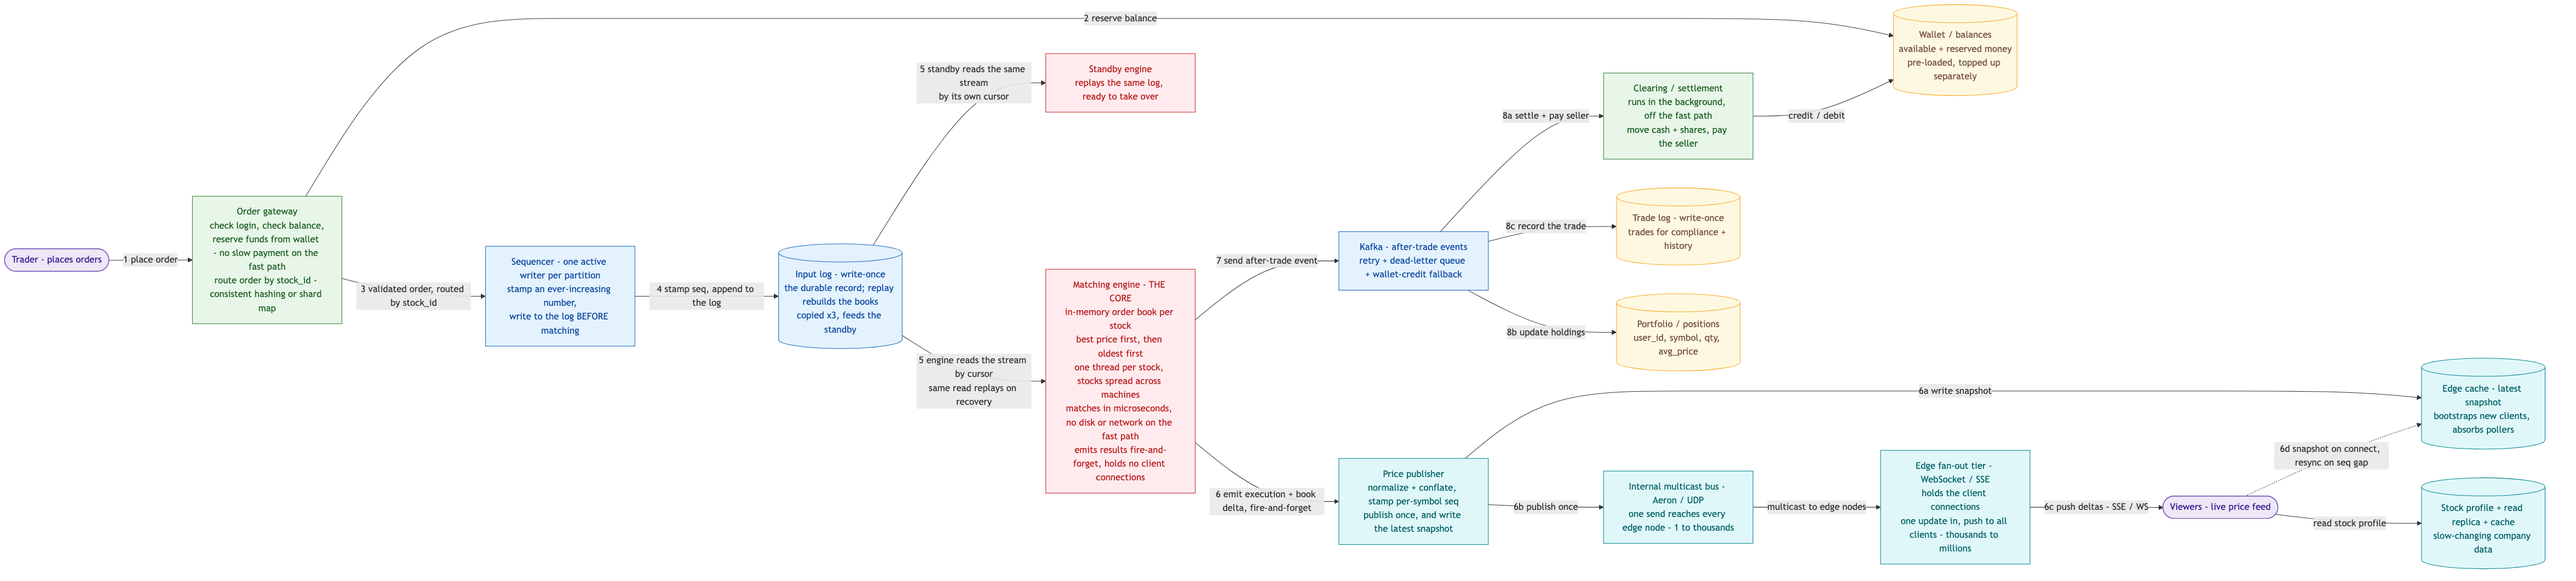
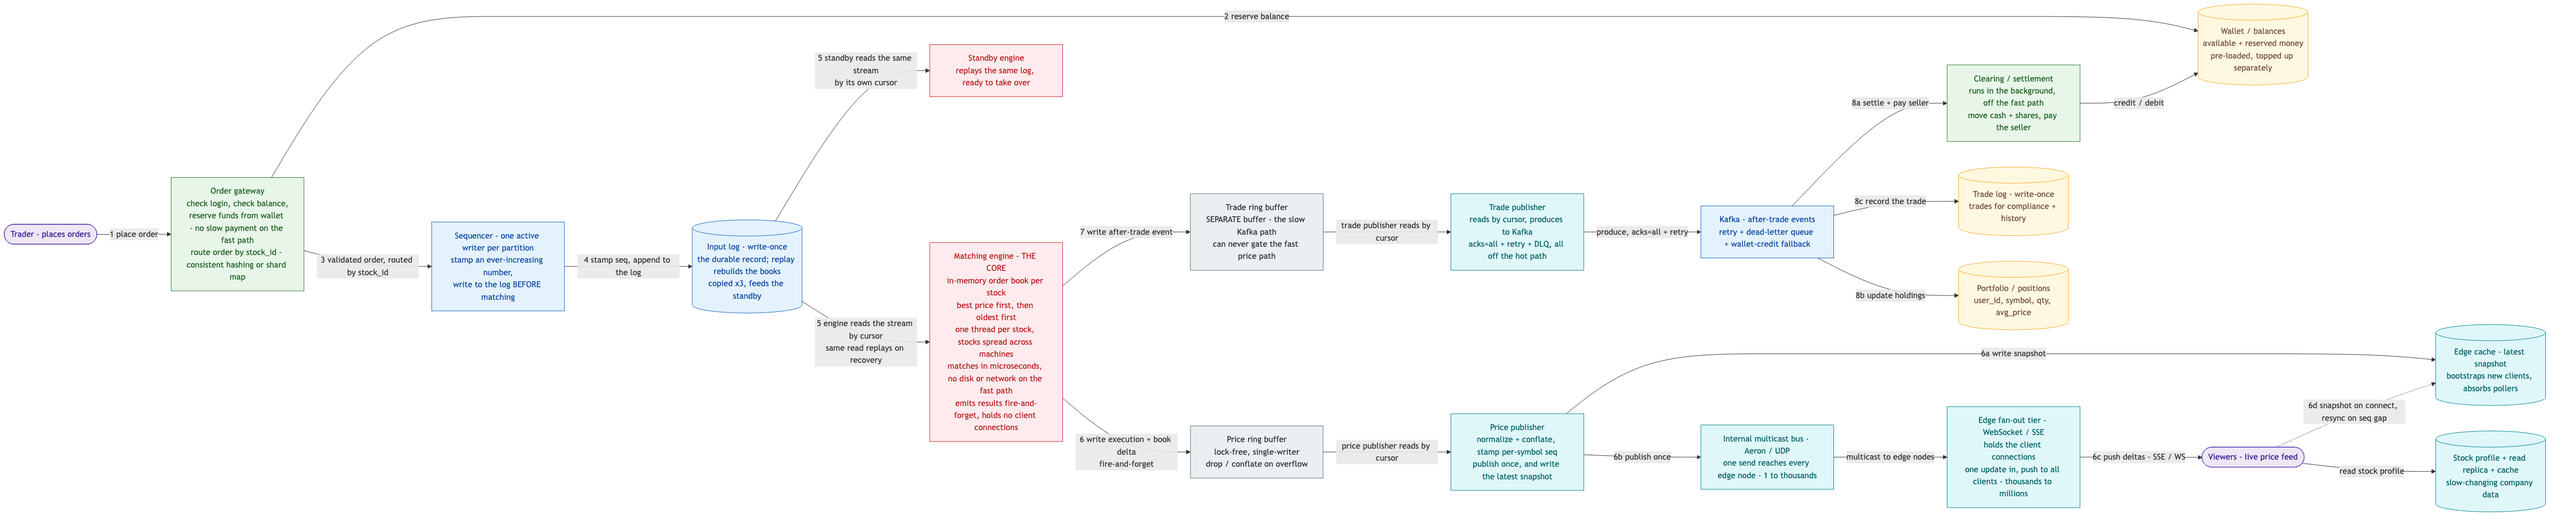
Updated the design for session-10 high frequncy trading

diff --git a/practice/10-session/README.md b/practice/10-session/README.md
@@ -123,7 +123,7 @@ Despite the score, several answers were genuinely senior and are **strengths I c
 
 The system breaks into **three separate flows** that only meet at the matching engine: a **write/match flow** (order comes in → gets matched), a **read/price flow** (trades → millions of screens), and an **after-trade flow** (trades → money and records settle). The whole trick is to keep the first flow in memory and microsecond-fast by moving *everything slow* — outside payments, database writes, fan-out — onto the other two, which run **in the background, off the fast path**. Steps are numbered along the order path (1–7) and the after-trade fan-out (8a–8c).
 
-![Ideal high-frequency trading system as a Mermaid flowchart with numbered steps. A trader places orders into an order gateway that checks login and balance, reserves funds from a wallet with no slow payment on the fast path, and routes each order by stock id using consistent hashing or a shard map, reading available and reserved money from a wallet and balances store that is pre-loaded and topped up separately. Step 1 place order reaches the gateway, step 2 reserve balance hits the wallet, step 3 the validated order is routed by stock id to a sequencer that is the one active writer per partition, stamps an ever-increasing number, and writes to the log before matching, step 4 write to log first writes to a write-once input log that is the durable record whose replay rebuilds the books, is copied three times, and feeds the standby, step 5 the matching engine reads the ordered stream from the log by advancing its own cursor rather than being pushed, and matches against its in-memory order book per stock with best price first then oldest first, one thread per stock, stocks spread across machines, matching in microseconds with no disk or network on the fast path. The standby engine reads the same log by its own cursor to stay in lockstep, and recovery is the same read replayed. Step 6 the engine emits execution and book delta events fire-and-forget to a price publisher, which normalizes and conflates them, stamps a per-symbol sequence number, in step 6a writes the latest snapshot to an edge cache, and in step 6b publishes them once onto an internal multicast bus using Aeron or UDP where one send reaches every edge node in a one-to-thousands fan-out. The multicast bus reaches the edge fan-out tier which holds the client connections and in step 6c pushes deltas to viewers over WebSocket or SSE in a thousands-to-millions fan-out. In step 6d a viewer fetches the latest snapshot from the edge cache on connect and resyncs from it on a sequence gap, and also reads slow-changing stock profile company data from a profile store with read replica and cache. Step 7 the engine sends an after-trade event to Kafka which carries retry, dead-letter queue, and wallet-credit fallback. From Kafka, step 8a settle and pay seller goes to a clearing and settlement service that runs in the background off the fast path to move cash and shares and pay the seller and then credits or debits the wallet, step 8b update holdings goes to a portfolio and positions store keyed by user id symbol quantity and average price, and step 8c record the trade goes to a write-once trade log store holding trades for compliance and history.](./diagrams/ideal-design.png)
+![Ideal high-frequency trading system as a Mermaid flowchart with numbered steps. A trader places orders into an order gateway that checks login and balance, reserves funds from a wallet with no slow payment on the fast path, and routes each order by stock id using consistent hashing or a shard map, reading available and reserved money from a wallet and balances store that is pre-loaded and topped up separately. Step 1 place order reaches the gateway, step 2 reserve balance hits the wallet, step 3 the validated order is routed by stock id to a sequencer that is the one active writer per partition, stamps an ever-increasing number, and writes to the log before matching, step 4 write to log first writes to a write-once input log that is the durable record whose replay rebuilds the books, is copied three times, and feeds the standby, step 5 the matching engine reads the ordered stream from the log by advancing its own cursor rather than being pushed, and matches against its in-memory order book per stock with best price first then oldest first, one thread per stock, stocks spread across machines, matching in microseconds with no disk or network on the fast path. The standby engine reads the same log by its own cursor to stay in lockstep, and recovery is the same read replayed. Step 6 the engine writes each execution and book delta fire-and-forget into a lock-free single-writer price ring buffer that drops or conflates on overflow, and a price publisher reads that ring buffer by its own cursor, normalizes and conflates them, stamps a per-symbol sequence number, in step 6a writes the latest snapshot to an edge cache, and in step 6b publishes them once onto an internal multicast bus using Aeron or UDP where one send reaches every edge node in a one-to-thousands fan-out. The multicast bus reaches the edge fan-out tier which holds the client connections and in step 6c pushes deltas to viewers over WebSocket or SSE in a thousands-to-millions fan-out. In step 6d a viewer fetches the latest snapshot from the edge cache on connect and resyncs from it on a sequence gap, and also reads slow-changing stock profile company data from a profile store with read replica and cache. Step 7 the engine writes each after-trade event fire-and-forget into a separate trade ring buffer, kept separate so the slow Kafka path can never gate the fast price path, and a trade publisher reads that ring buffer by its own cursor and produces to Kafka with acks equal to all plus retry and a dead-letter queue, all off the hot path. Kafka carries retry, dead-letter queue, and wallet-credit fallback. From Kafka, step 8a settle and pay seller goes to a clearing and settlement service that runs in the background off the fast path to move cash and shares and pay the seller and then credits or debits the wallet, step 8b update holdings goes to a portfolio and positions store keyed by user id symbol quantity and average price, and step 8c record the trade goes to a write-once trade log store holding trades for compliance and history.](./diagrams/ideal-design.png)
 
 #### Flow A — the write / match path (steps 1–5): *"an order comes in and gets matched"*
 
@@ -143,7 +143,7 @@ This is the **fast path**, measured in microseconds. Everything here is built to
 
 Trades and book changes are **outputs** of the engine, not part of matching. This flow carries the **100M reads/sec** and is deliberately a *separate system*, so read load can never slow matching down. It's a **two-stage amplifier** — one event becomes thousands of edge deliveries, then millions of client pushes — and the engine stays completely unaware of it.
 
-6. **⑥ Emit execution + book delta → price publisher (fire-and-forget).** The engine drops each trade and best-bid/ask change into an in-memory buffer and immediately goes back to matching — it holds **no client connections** and waits for no one. The **price publisher** then does three jobs *once, centrally*, so a million clients don't each repeat them: **normalize** to the public wire format; **conflate** (collapse a burst of ticks for one symbol to the latest — humans can't see 50 ticks/ms); and **stamp a per-symbol sequence number** so a client can detect a gap.
+6. **⑥ Write execution + book delta → price ring buffer (fire-and-forget).** The engine does a **single non-blocking write** into a **lock-free ring buffer** (the LMAX Disruptor pattern) and immediately goes back to matching — it holds **no client connections** and waits for no one. The **price publisher** reads that ring buffer *by its own cursor* and does three jobs *once, centrally*, so a million clients don't each repeat them: **normalize** to the public wire format; **conflate** (collapse a burst of ticks for one symbol to the latest — humans can't see 50 ticks/ms); and **stamp a per-symbol sequence number** so a client can detect a gap.
    - **⑥a Write the latest snapshot → edge cache.** The newest price/book snapshot is cached at the edge so a *newly-connecting* client can bootstrap instantly, and pollers are absorbed here — they never reach the engine.
    - **⑥b Publish once → internal multicast bus.** The publisher sends each update **one time** onto an **internal multicast bus (Aeron / UDP)**. Instead of looping and sending 1,000 copies, it sends once and the **network duplicates** the packet to every edge node at the same instant — a **1 → thousands** fan-out. (Full mechanism: [Low-Latency Messaging](../../concepts/07-messaging-and-events/low-latency-messaging.md).)
    - **⑥c Push deltas → viewers (WebSocket / SSE).** Each **edge node** holds the actual long-lived client connections and pushes updates down them — a **thousands → millions** fan-out. The edge tier can crash and scale on its own without ever touching the engine.
@@ -155,13 +155,15 @@ Trades and book changes are **outputs** of the engine, not part of matching. Thi
 
 Once a trade is matched, the *bookkeeping* — paying the seller, updating who owns what, writing the audit log — is **asynchronous** and runs through Kafka. None of it is on the fast path, and all of it can retry safely.
 
-7. **⑦ Send after-trade event → Kafka.** The engine sends one durable event per trade to **Kafka**, then moves on. Kafka provides **retry + dead-letter queue + wallet-credit fallback** for anything downstream that fails.
+7. **⑦ Write after-trade event → trade ring buffer → Kafka.** The engine does the *same non-blocking hand-off* as the price path: it writes each trade event into a **separate trade ring buffer** and returns to matching. A dedicated **trade publisher** drains that buffer and produces to **Kafka** with `acks=all` + retry + dead-letter queue — so the durable, blocking work happens on a **background thread, never on the matching thread**. Kafka then provides **retry + dead-letter queue + wallet-credit fallback** for anything downstream that fails.
 8. Three independent consumers each do one job:
    - **⑧a Settle & pay seller → clearing/settlement service** — moves the cash and shares between the two parties and credits the seller's wallet. Runs **off the fast path**, so a slow settlement never delays a trade; a failed payout retries via Kafka → dead-letter queue → wallet-credit (my interview answer, kept).
    - **⑧b Update holdings → portfolio store** — updates `user_id, symbol, qty, avg_price` so the buyer's portfolio shows the new shares.
    - **⑧c Record the trade → trade log** — writes the trade to a write-once log for **compliance and history**.
 
 > **Why background:** settlement and records must be *correct and durable*, but not *instant*. Running them through Kafka keeps the fast path fast, and each consumer can fail, retry, and recover on its own without ever touching the engine.
+
+> **Why two separate ring buffers — and why the engine never blocks.** The matching thread does exactly one thing per output: a **non-blocking write into a lock-free ring buffer** (the LMAX Disruptor pattern), then straight back to matching. Everything slow — normalize, conflate, multicast, and especially the Kafka `send` with `acks=all` + retry — happens on **separate publisher threads** reading those buffers by their own cursors. Crucially, the price feed and the trade feed get **their own buffers**. In a shared ring the producer can't overwrite a slot until *every* consumer has passed it, so the **slowest consumer gates the buffer** — and the Kafka publisher is the slow one (network + broker acks). A separate trade buffer means a backed-up Kafka never stalls the µs price path. On overflow the two buffers behave differently by design: the **price buffer drops/conflates** (a stale tick is worthless), while the **trade buffer must not lose events** → it spills to a larger durable queue and alerts rather than blocking the engine. The safety net underneath: trade durability doesn't actually *depend* on Kafka — the order is already in the replicated input log before matching, so the trade buffer → Kafka is a *delivery pipeline*, not the system of record. Rule of thumb: **latency-critical + loss-tolerant → drop-on-overflow, no ack; money-critical → durable, `acks=all`, but push the ack-wait onto a background thread.**
 
 **Resilience note (not a request flow):** because the engine's state comes entirely from *reading the log*, a **standby engine reads the same log in lockstep** and takes over instantly if the primary fails, and **recovery is just a replay** — see [§5](#5-resilience--failover).
 
@@ -173,7 +175,9 @@ Once a trade is matched, the *bookkeeping* — paying the seller, updating who o
 | Spine | **Input log** — write-once, durable + **replayable**, copied ×3; **engine and standby each read it by cursor** | → Engine, → Standby |
 | **Core** | **Matching engine** — **in-memory order book per stock**, price-time priority, **one thread per stock**, split across machines by stock, **no disk/network on the fast path** | in-memory |
 | **Core** | **Standby engine** — replays the same log, takes over on failure | in-memory |
-| Read | **Price publisher** — pushes out trades + book changes | → Fan-out layer |
+| Hand-off | **Ring buffers** (×2, lock-free) — engine does one non-blocking write per output; **separate price + trade buffers** so slow Kafka can't gate the µs price path | in-memory (Disruptor) |
+| Read | **Price publisher** — reads the price ring buffer by cursor; normalize + conflate + push | → Fan-out layer |
+| After-trade | **Trade publisher** — reads the trade ring buffer by cursor; produces to Kafka `acks=all` + retry + DLQ, **off the hot path** | → Kafka |
 | Read | **Fan-out layer** — WebSocket/SSE + edge caching, **absorbs 100M reads/sec** | edge cache |
 | Read | **Stock profile** — slow-changing company data | read replica + cache |
 | After-trade | **Kafka** — after-trade events; retry + dead-letter queue + wallet-credit fallback | Kafka |
@@ -219,8 +223,9 @@ while True:
 #   The engine's state is fully decided by the log: replay seq 0..N -> the exact same book.
 #   The standby engine constantly replays the same stream, so it is always warm and ready.
 #   A crash loses nothing -> restart or standby replays from the last snapshot + the log's tail.
-# TRADES are outputs: send them to the read layer (push) and to Kafka (after-trade),
-#   both OFF the fast path.
+# TRADES are outputs: the engine does ONE non-blocking write into a lock-free ring buffer
+#   (Disruptor). Separate publisher threads drain it -> read layer (push) and Kafka (after-trade).
+#   Two buffers, so the slow Kafka publisher can never gate the microsecond price path.
 ```
 
 > **Read-a-log, not RPC.** The sequencer and engine never call each other — the sequencer *appends*, the engine *reads by cursor*. That one choice is what lets the **standby stay in lockstep** and makes **recovery just a replay** ([§5](#5-resilience--failover)); a direct push would force the sequencer to track every consumer and would break both.
@@ -313,6 +318,6 @@ Part of getting this right was **challenging the design and proposing alternativ
 5. **Put the core in the right place.** The order book lives **in memory**, not in a database table. When the key data structure clearly needs memory and a single owner, drawing it as a datastore is the tell that I didn't really understand the core.
 6. **Huge read loads are a fan-out problem.** 100M reads/sec of a number that changes every trade → **a price publisher + edge push layer (WebSocket/SSE)**, kept separate from matching. Read replicas are only for slow-changing data.
 7. **Bank the wins — they're senior instincts.** One thread per stock, the wallet fix, the Kafka failure handling, and the consistency split are real strengths that carried into a brand-new domain. The gap is **depth on the core**, not the fundamentals — which is exactly what a focused re-solve fixes.
-8. **Know the plumbing, not just the boxes.** The two things worth being able to defend cold: the engine **reads the log by cursor (pull), it isn't pushed** — which is *why* the standby stays in lockstep and recovery is a replay; and failover is correct because **the seq is a bookmark + outputs are idempotent (`exec_id = f(seq)`) + the old primary is fenced**. Draw the data path so it can't imply the wrong mechanism, and match the **transport to each consumer** (µs multicast for the live feed, durable Kafka for after-trade) instead of forcing one bus to do both.
+8. **Know the plumbing, not just the boxes.** The two things worth being able to defend cold: the engine **reads the log by cursor (pull), it isn't pushed** — which is *why* the standby stays in lockstep and recovery is a replay; and failover is correct because **the seq is a bookmark + outputs are idempotent (`exec_id = f(seq)`) + the old primary is fenced**. Draw the data path so it can't imply the wrong mechanism, and match the **transport to each consumer** (µs multicast for the live feed, durable Kafka for after-trade) instead of forcing one bus to do both. And know how the engine *hands off* without blocking: **one non-blocking write into a lock-free ring buffer** per output, with **separate buffers** for the fast price feed and the slow Kafka path so the slow consumer can never gate the matching thread — the ack-wait for `acks=all` lives on a background publisher, never on the hot path.
 
 → Consolidated feedback across all sessions lives in the [practice tracker](../README.md). Rehearse with the [Opening Ritual](../opening-ritual.md) + [Answer Framework](../answer-framework.md) before the next mock.
